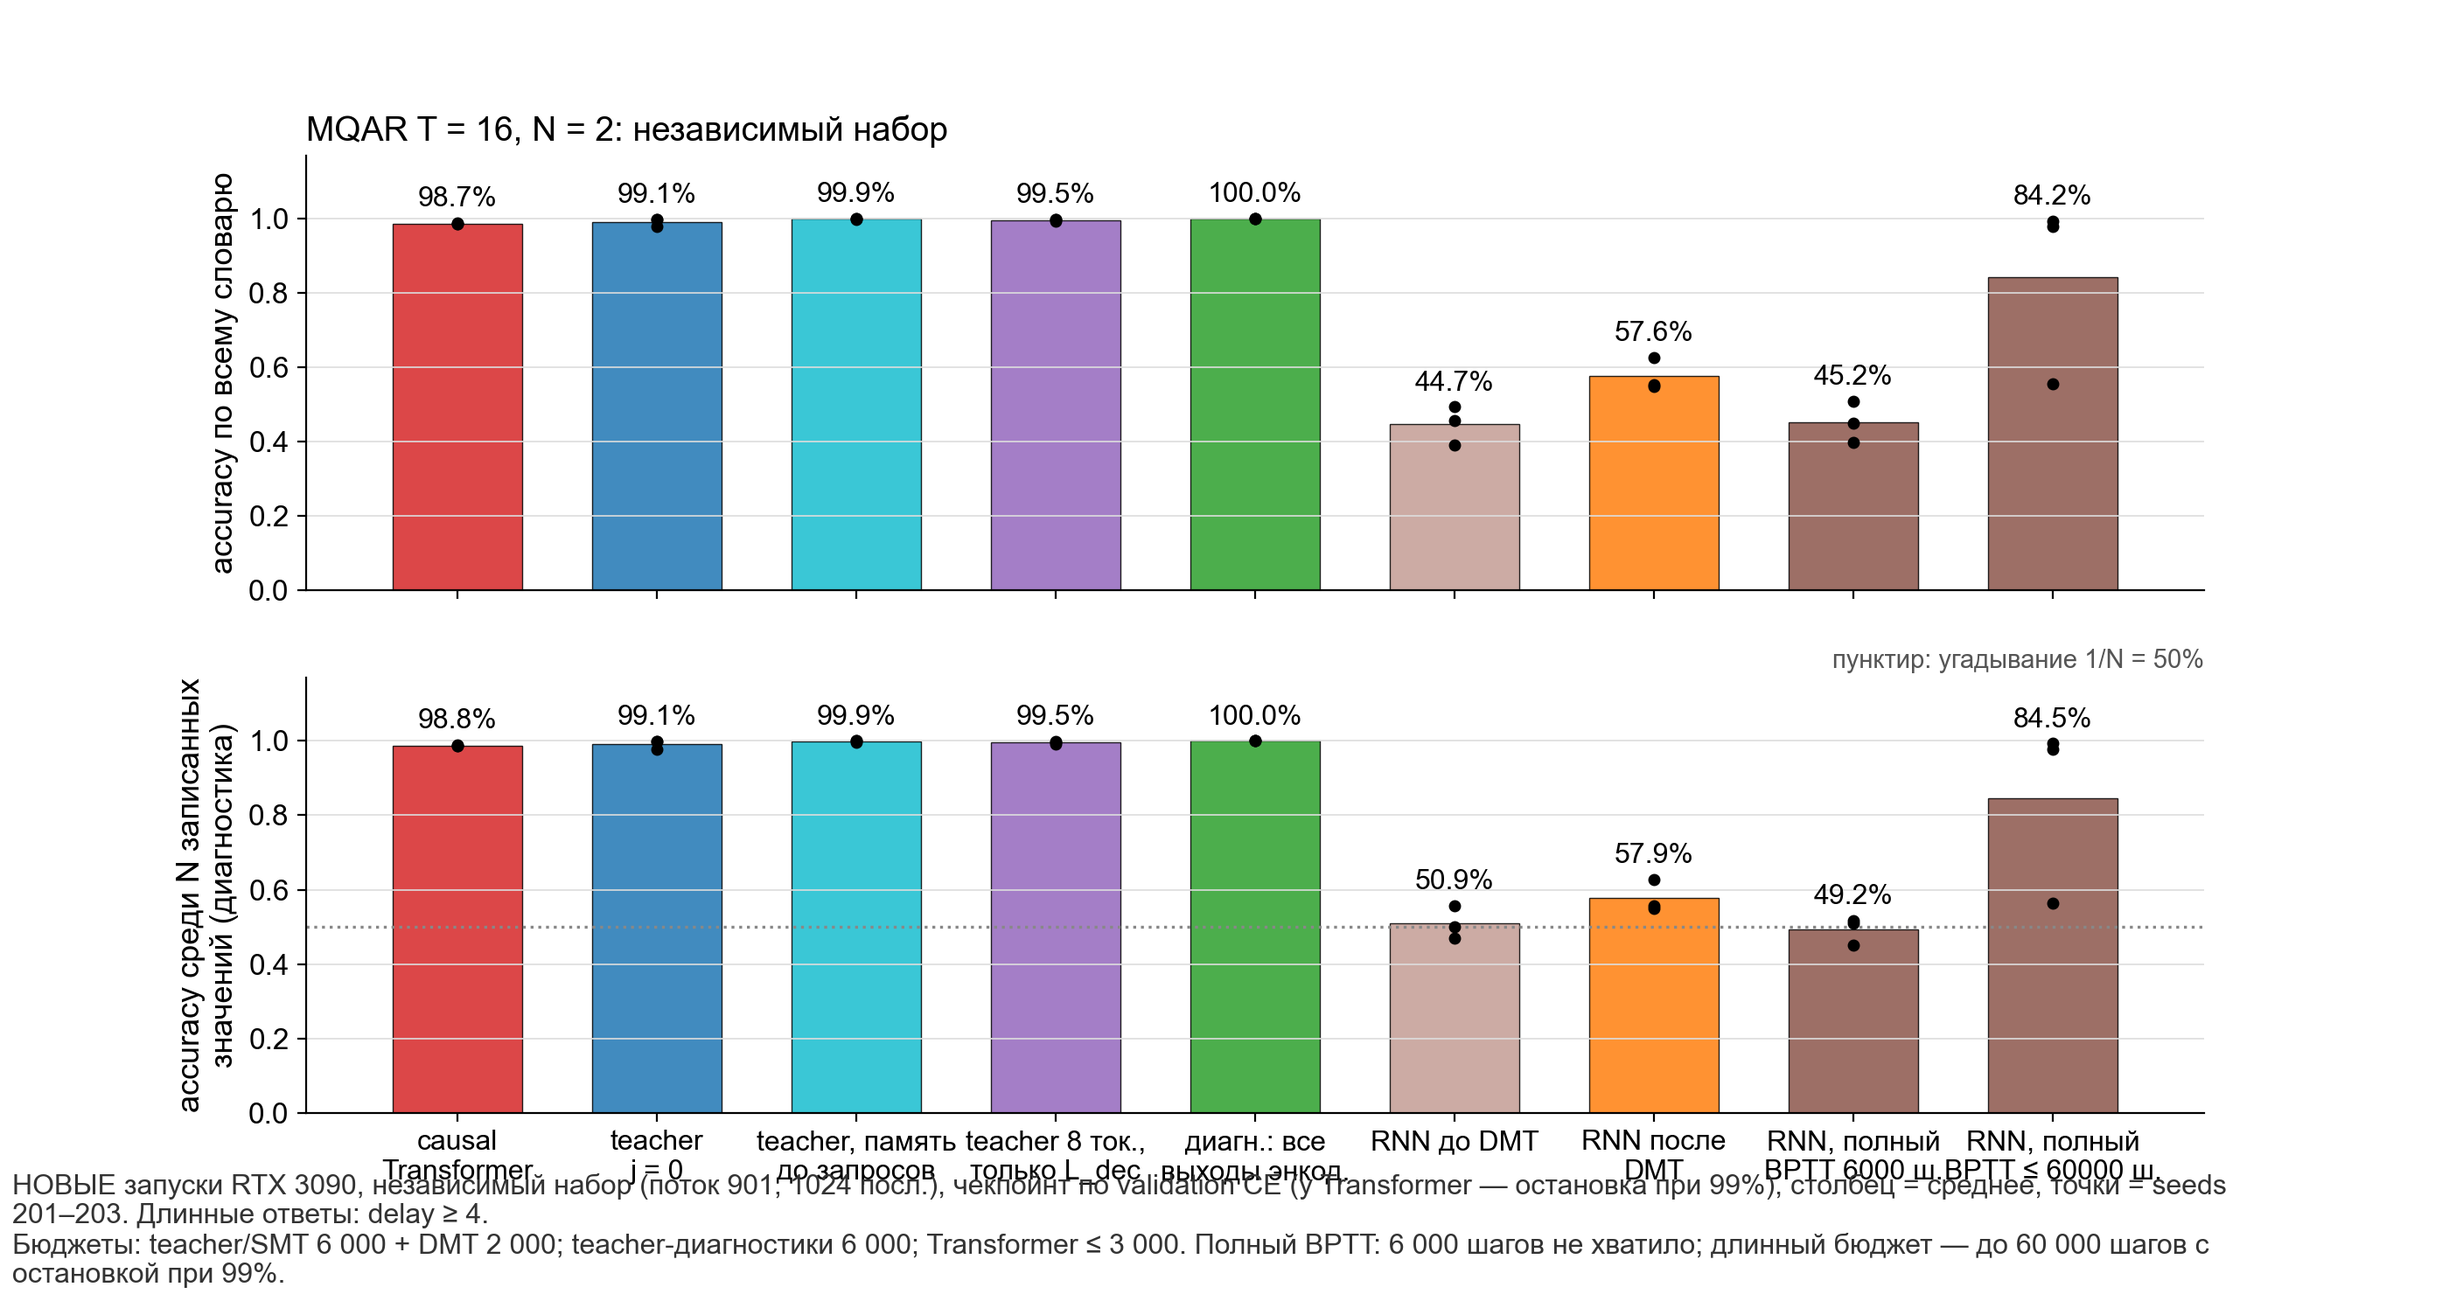
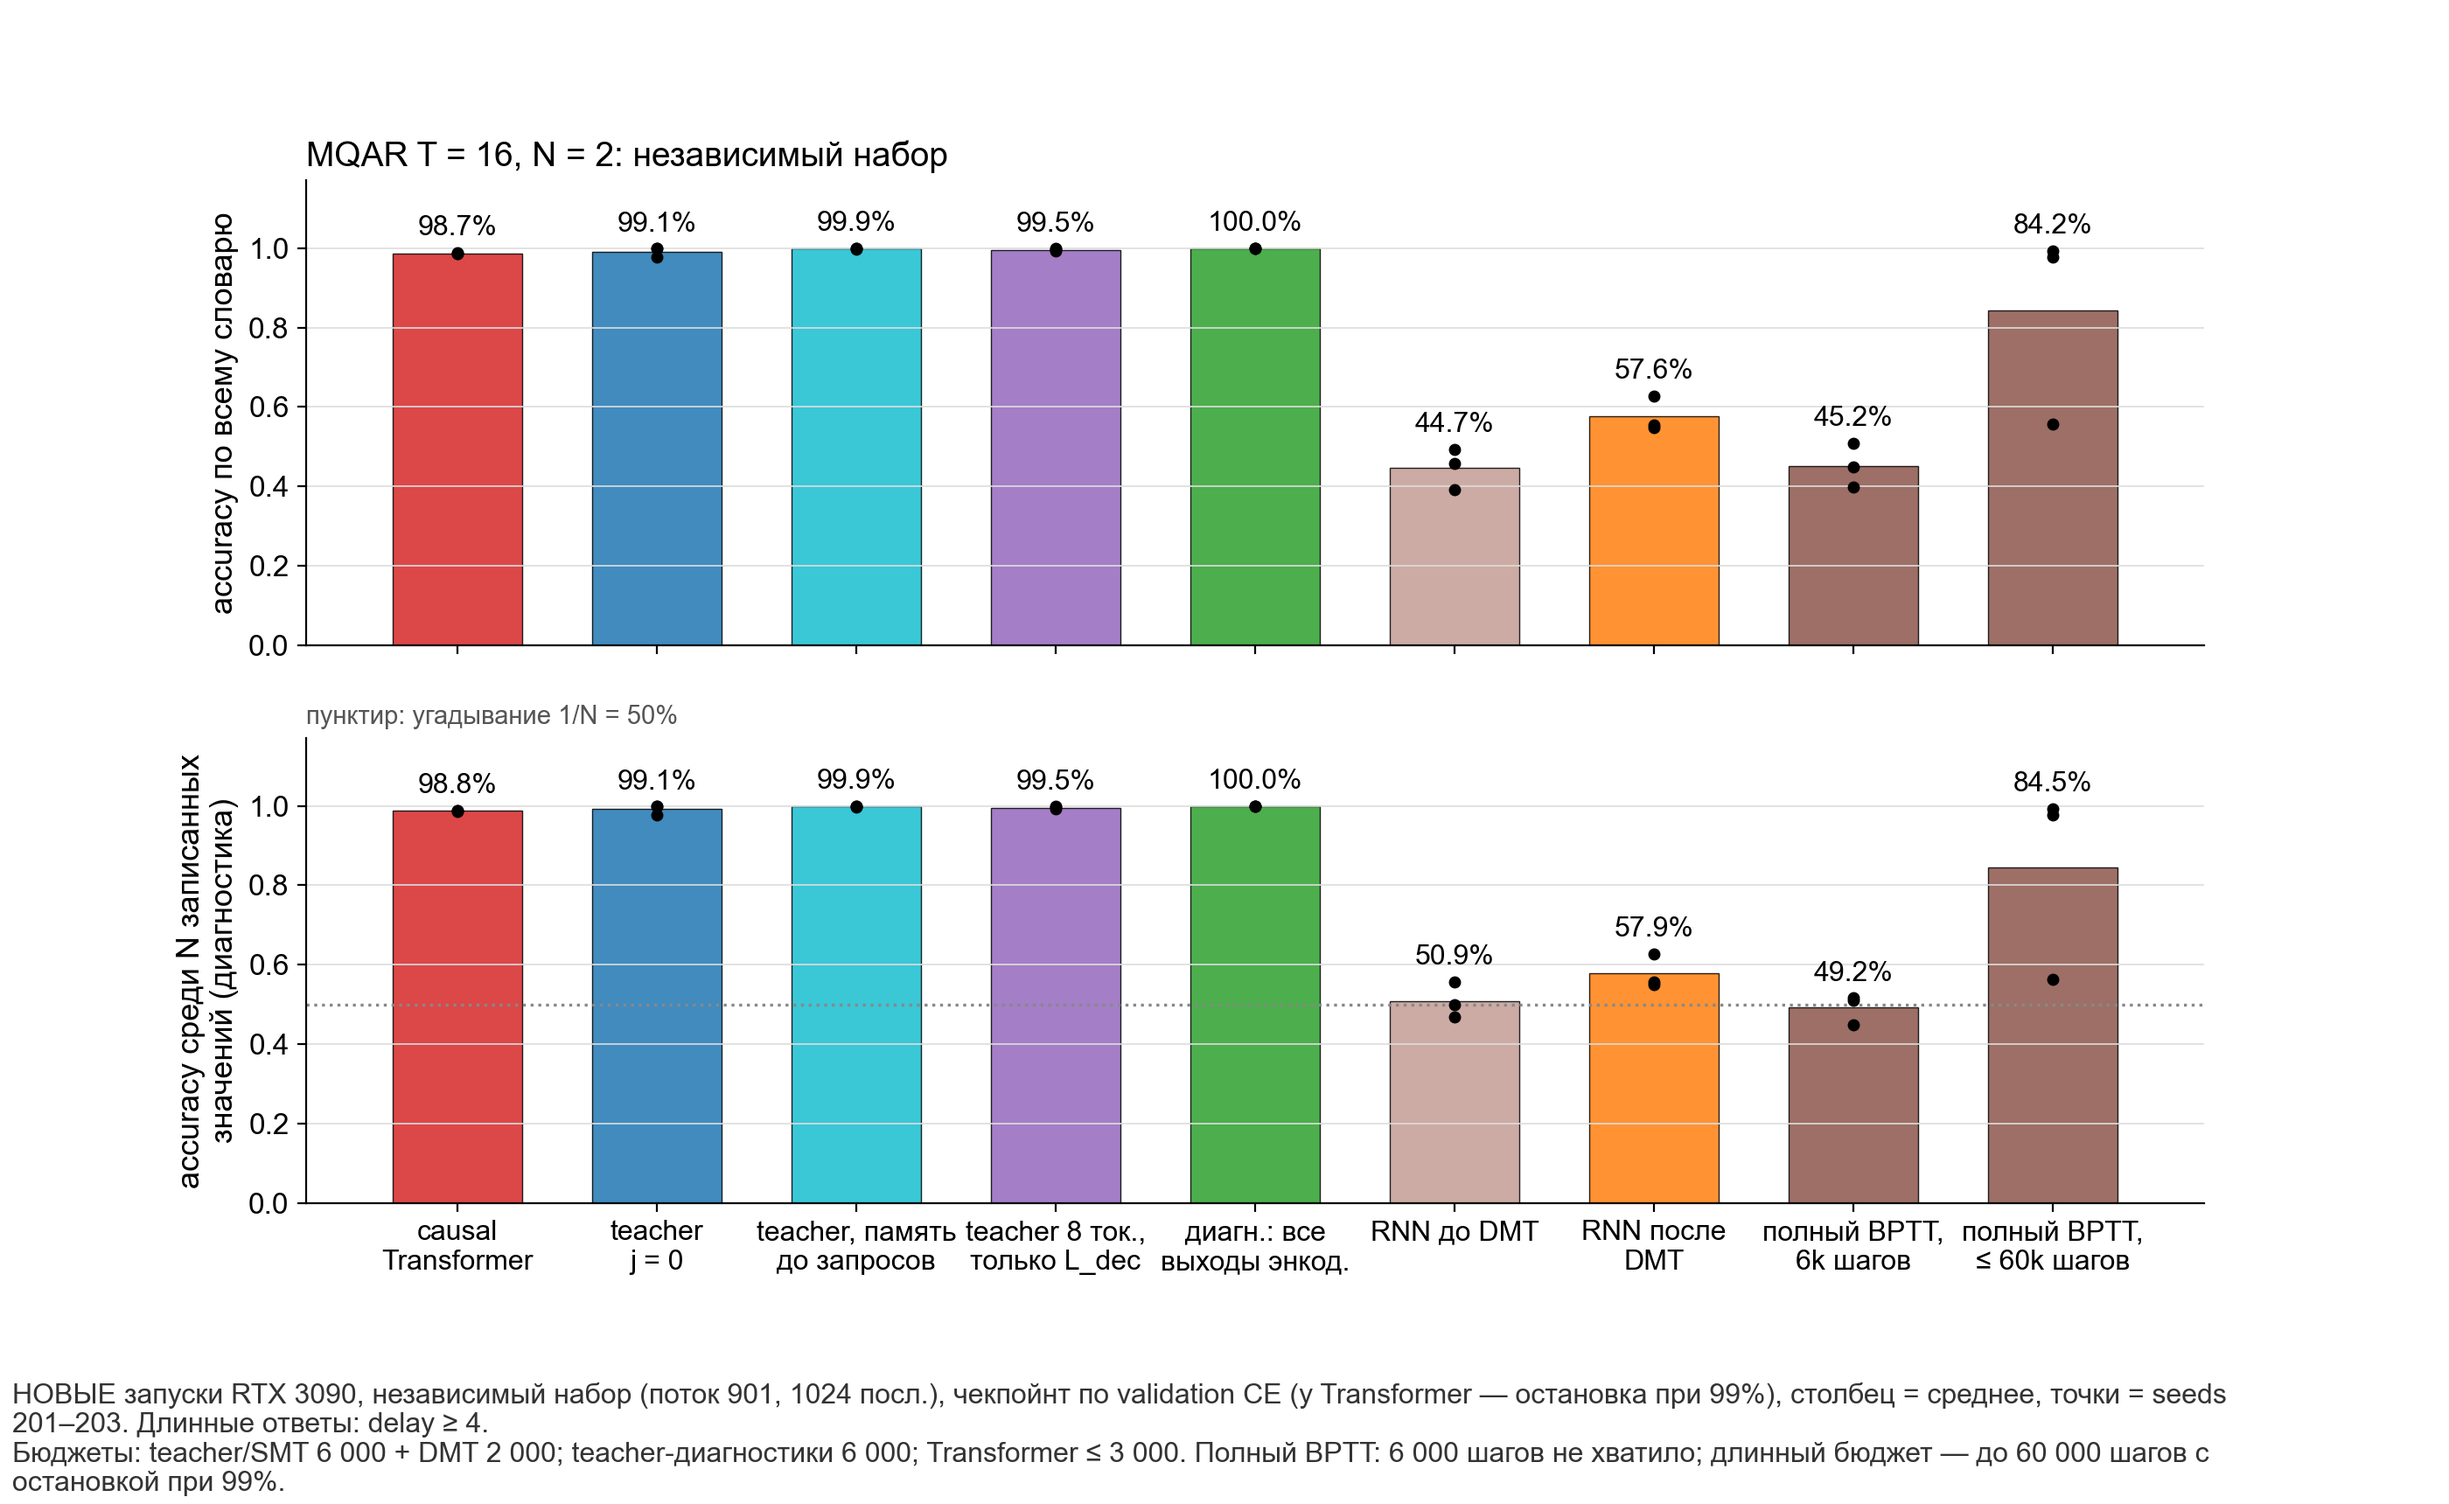
MQAR bar charts: taller layout, no overlapping labels; long full BPTT with all 3 seeds

diff --git a/deck/make_deck_figures.py b/deck/make_deck_figures.py
@@ -160,7 +160,7 @@ def bar_panel(ax, items, title, ylabel="точность", chance=None, chance_l
     ax.set_xticks(range(len(items))); ax.set_xticklabels([it[0] for it in items], fontsize=11.5)
     if chance is not None:
         ax.axhline(chance, color="#888888", ls=":", lw=1.2)
-        ax.text(1.0, 1.01, f"пунктир: {chance_label}", transform=ax.transAxes, fontsize=10.5, color="#555555", ha="right", va="bottom")
+        ax.text(0.0 if not title else 1.0, 1.02, f"пунктир: {chance_label}", transform=ax.transAxes, fontsize=10.5, color="#555555", ha="left" if not title else "right", va="bottom")
     ax.set_ylim(0, ylim + 0.12); ax.set_title(title, loc="left"); ax.set_ylabel(ylabel)
     ax.grid(axis="x", visible=False)
 
@@ -370,12 +370,12 @@ def mq_items(prefix, has_full=True):
     it += [("RNN до DMT", COL["rnn_smt"], f"mqar_{T}_smt", "eval_best_rnn_smt_long"),
            ("RNN после\nDMT", COL["rnn_dmt"], f"mqar_{T}_smt", "eval_best_rnn_dmt_long")]
     if has_full:
-        it += [("RNN, полный\nBPTT 6000 ш.", COL["bptt_full"], f"mqar_{T}_rnn_bptt_full", "eval_best_rnn_bptt_long"),
-               ("RNN, полный\nBPTT ≤ 60000 ш.", COL["bptt_full"], f"mqar_{T}_rnn_bptt_full_long", "eval_best_rnn_bptt_long")]
+        it += [("полный BPTT,\n6k шагов", COL["bptt_full"], f"mqar_{T}_rnn_bptt_full", "eval_best_rnn_bptt_long"),
+               ("полный BPTT,\n≤ 60k шагов", COL["bptt_full"], f"mqar_{T}_rnn_bptt_full_long", "eval_best_rnn_bptt_long")]
     return it
 
 for T, N, has_full in (("T16N2", 2, True), ("T32N4", 4, False)):
-    fig, axes = plt.subplots(2, 1, figsize=(14, 7.4), sharex=True)
+    fig, axes = plt.subplots(2, 1, figsize=(14, 8.6), sharex=True)
     its = mq_items(T, has_full)
     for ax, suffix, ylab, chance, cl in ((axes[0], "_acc", "accuracy по всему словарю", None, None),
                                          (axes[1], "_cand_acc", "accuracy среди N записанных\nзначений (диагностика)", 1 / N, f"угадывание 1/N = {100 / N:.0f}%")):
@@ -387,7 +387,7 @@ for T, N, has_full in (("T16N2", 2, True), ("T32N4", 4, False)):
             f"Длинные ответы: delay ≥ {4 if N == 2 else 8}.\n" +
             ("Бюджеты: teacher/SMT 6 000 + DMT 2 000; teacher-диагностики 6 000; Transformer ≤ 3 000. Полный BPTT: 6 000 шагов не хватило; длинный бюджет — до 60 000 шагов с остановкой при 99%." if N == 2 else
              "Бюджеты: SMT 6 000 + DMT 2 000, Transformer ≤ 3 000. Полный BPTT на T = 32 ещё не запускался (в очереди, 60 000 шагов)."))
-    save(fig, f"M2_mqar_{T}_bars", note, bottom=0.14)
+    save(fig, f"M2_mqar_{T}_bars", note, bottom=0.2)
 
 # T32N4 curves
 fig, ax = plt.subplots(figsize=(9.5, 4.8))
